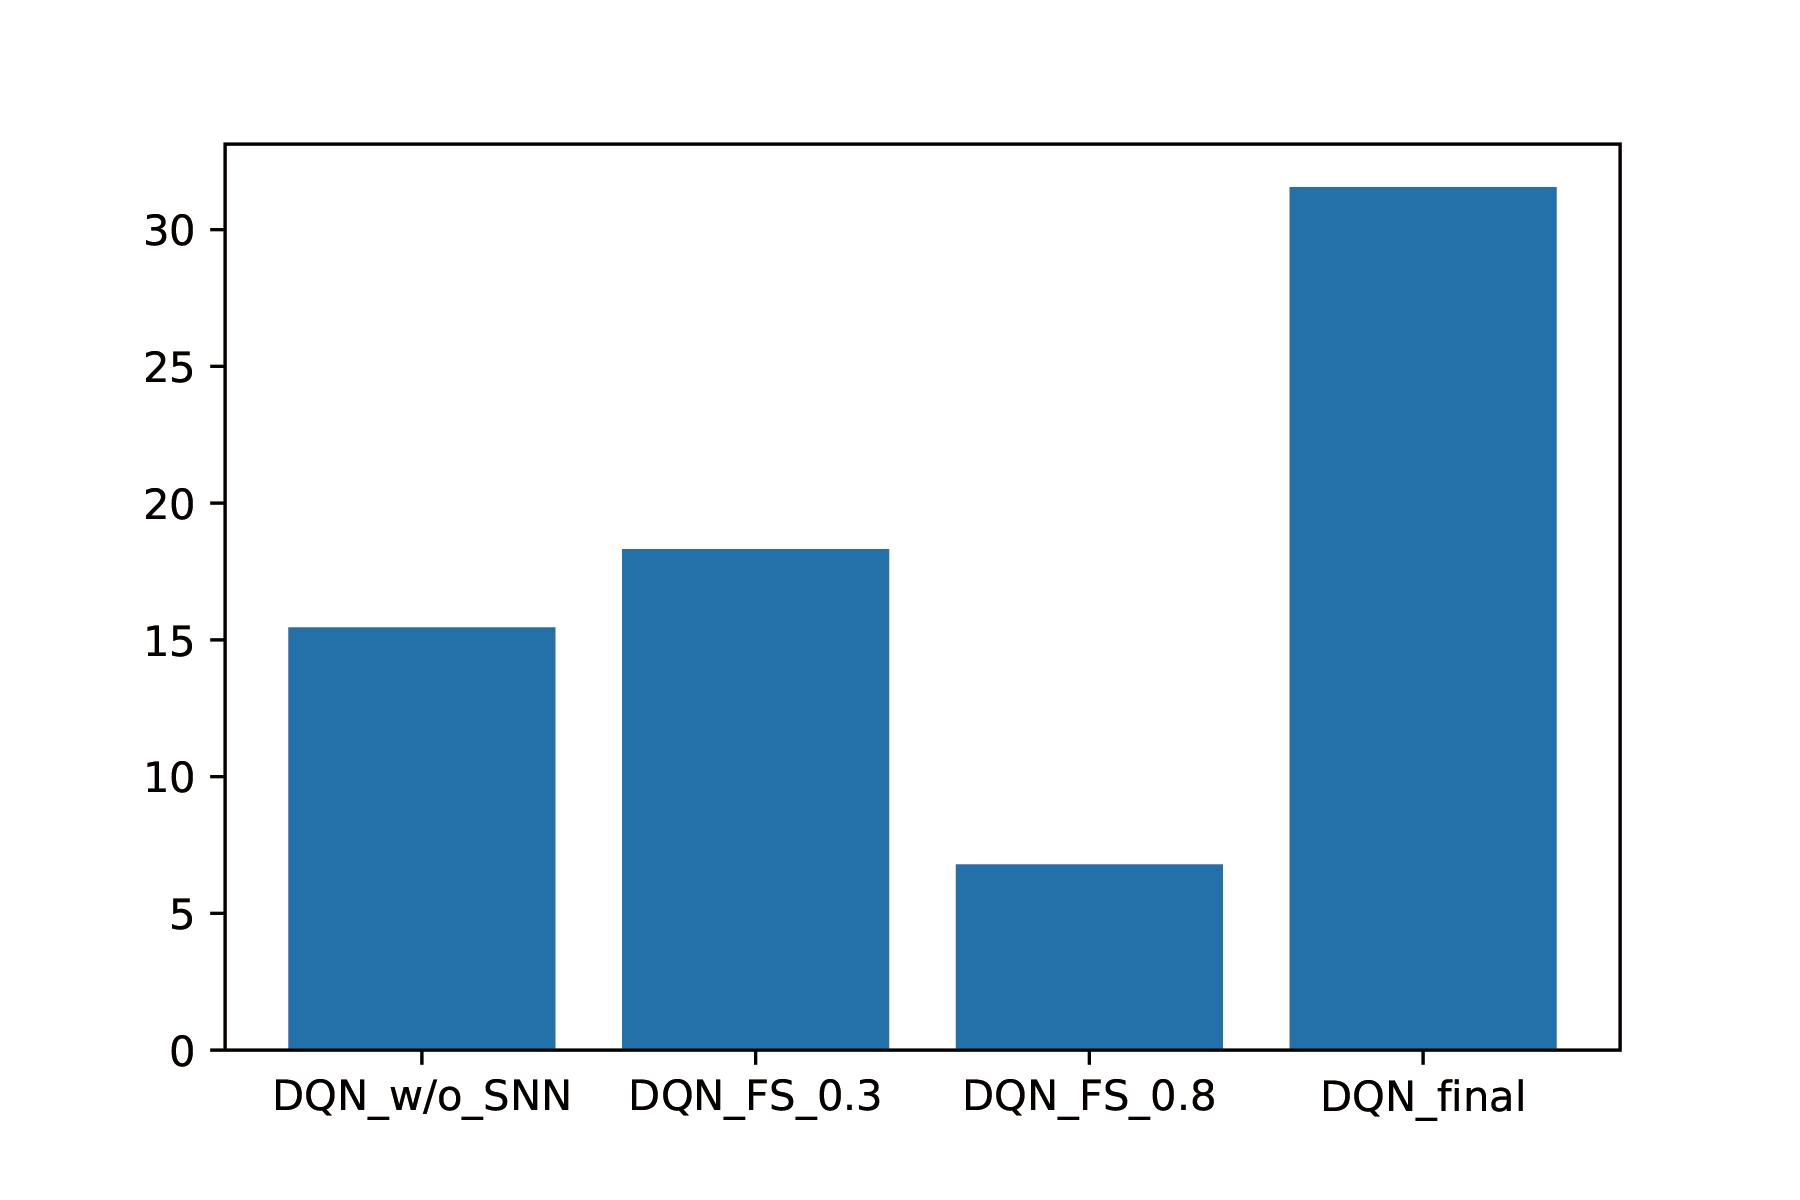
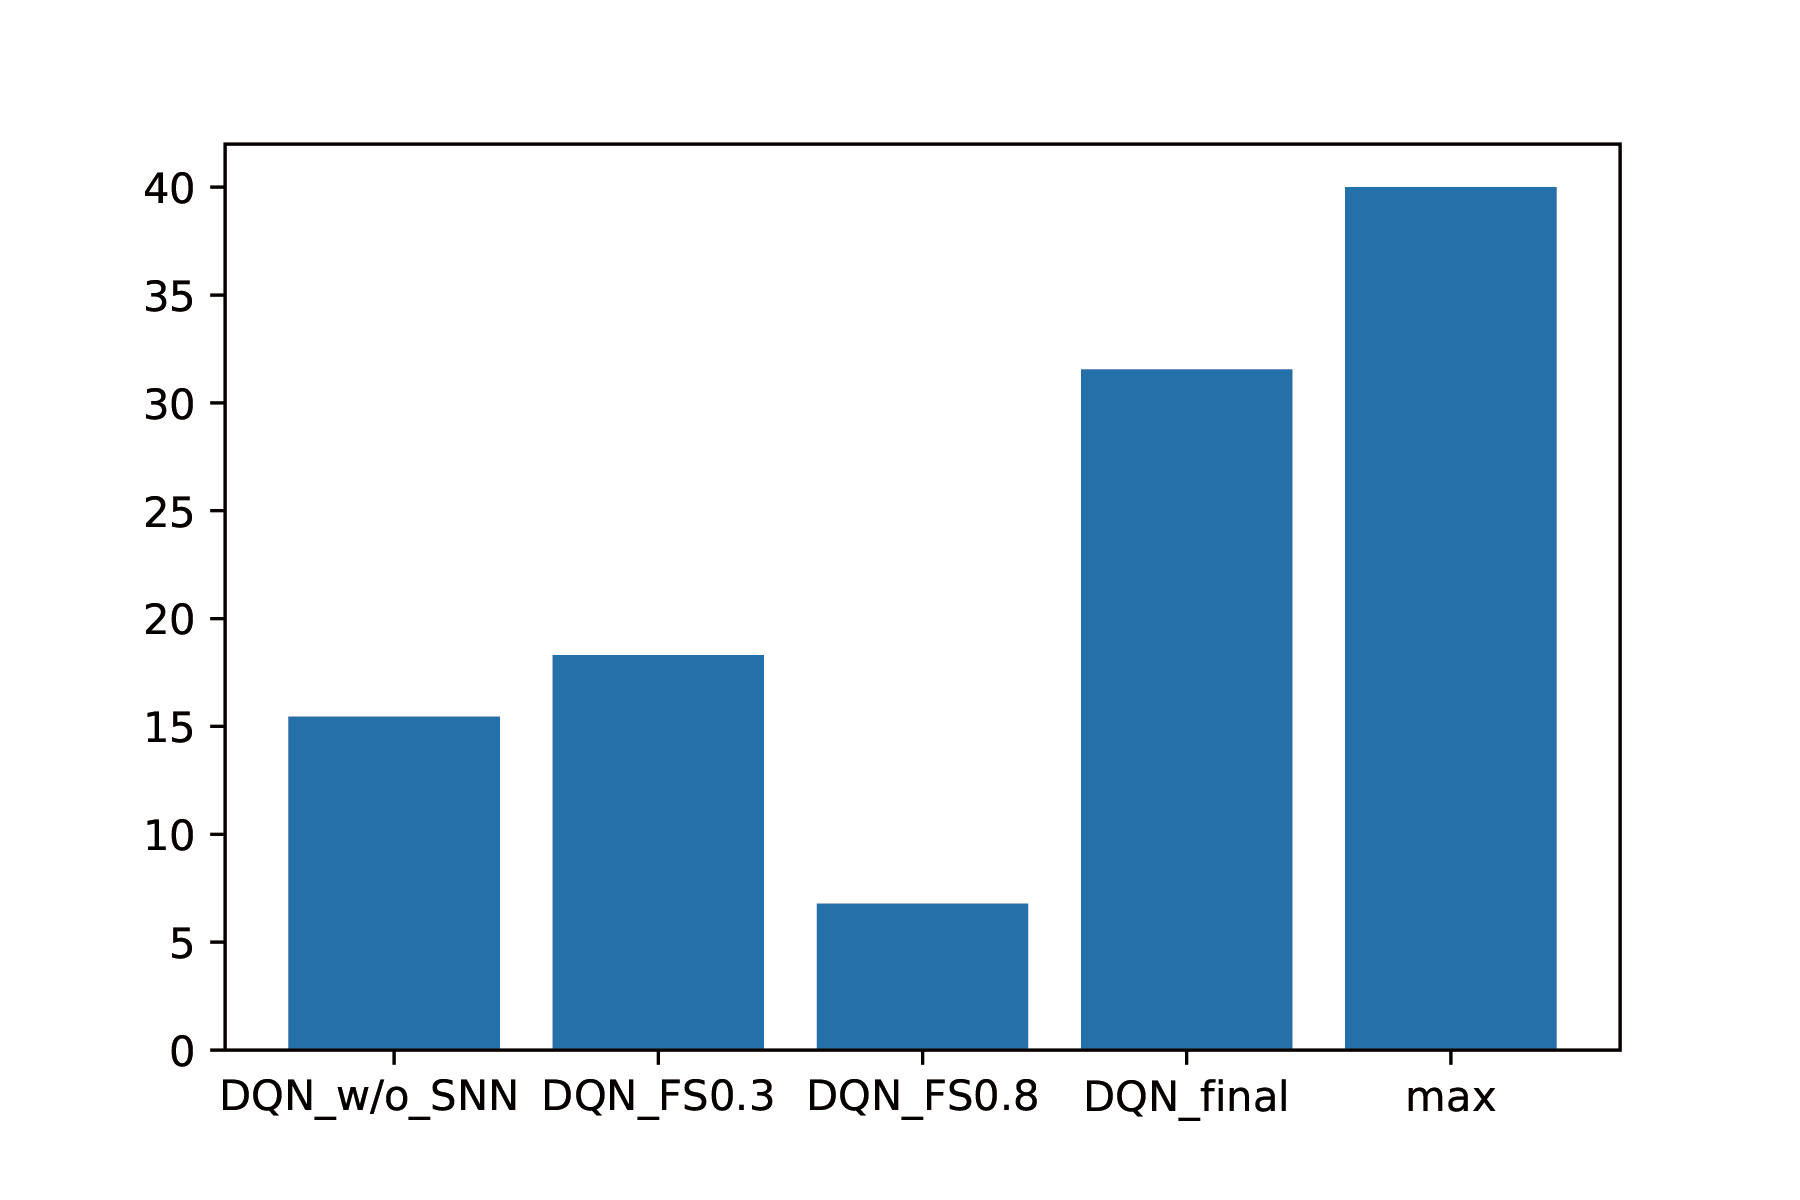
finish

diff --git a/docs/final.md b/docs/final.md
@@ -66,7 +66,7 @@ The network contains two parts. The first part is a series 2D convolutional laye
 <div style="text-align:center"><img src="figures_f/f2.png" /></div>
 
 **Reward Function** <br><br>
-We want to define a non-sparse reward function. Therefore, we decide to use the current speed of the agent as the main reward. We use the 10 times of the speed subtracted from 1.6 to be the main reward. The reward will be negative if the speed is too slow. Also, we want to encourage our agent to avoid hitting pillars and do less meaningless actions. Therefore, we design the reward function as given below:
+We want to define a non-sparse reward function. Therefore, we decide to use the current speed of the agent as the main reward. We use the 10 times of the speed subtracted from 1.6 to be the main reward. The reward will be negative if the speed is too slow. Also, we want to encourage our agent to avoid hitting pillars and do less meaningless actions. Therefore, we used reward shaping method, and design the reward function as given below:
 
 $$
 R(s)=\left\{
@@ -219,4 +219,16 @@ We did another experiment. We randomly generate 10 maps, and trained our three m
 
 <div style="text-align:center"><img src="figures_f/f12.png" width="750" height="500"/></div>
 
-We find that our final model can reached the farthest distance among three models. We also tired to revise the speed of DQN with SNN and fixed speed. We found that if we set the speed of that model to the maximum speed (0.8), it achieves the worst distance between models. It is caused by that it does no have enough time to avoid obstacles since the speed is too high.
+We find that our final model can reached the farthest distance among three models (31.55). In our metrics, the theoretical farthest distance a model can reach in 30 seconds is 40;therefore, our final model has achieved a very good performance. We also tired to revise the speed of DQN with SNN and fixed speed. We found that if we set the speed of that model to the maximum speed (0.8), it achieves the worst distance among our models. It is caused by that it does no have enough time to avoid obstacles since the speed is too high.<br>
+We also look into the rewards. We found that the trend of the rewards is pretty similar to the distance, which is understandable because we basically use the distance as the rewards, but add some reward shaping terms:
+
+
+<div style="text-align:center"><img src="figures_f/f13.png" width="750" height="500"/></div>
+
+From the evaluation above, we are confident that our final DQN model basically solves the obstacle auto-avoidance problem under Minecraft setting.
+
+# References
+We have used Python Malmo module to simulate the car driving environment and to operate the Minecraft agent. We use PyTorch library to train our agent to avoid obstacles.<br>
+The implementation of our DQN take [this](https://pytorch.org/tutorials/intermediate/reinforcement_q_learning.html) as a reference.<br>
+The ResNet50 we are using is introduced in this [this paper](https://arxiv.org/abs/1512.03385).<br>
+The Steven image on home page is from [this source](https://free3d.com/3d-model/minecraft-steve-2569.html)
